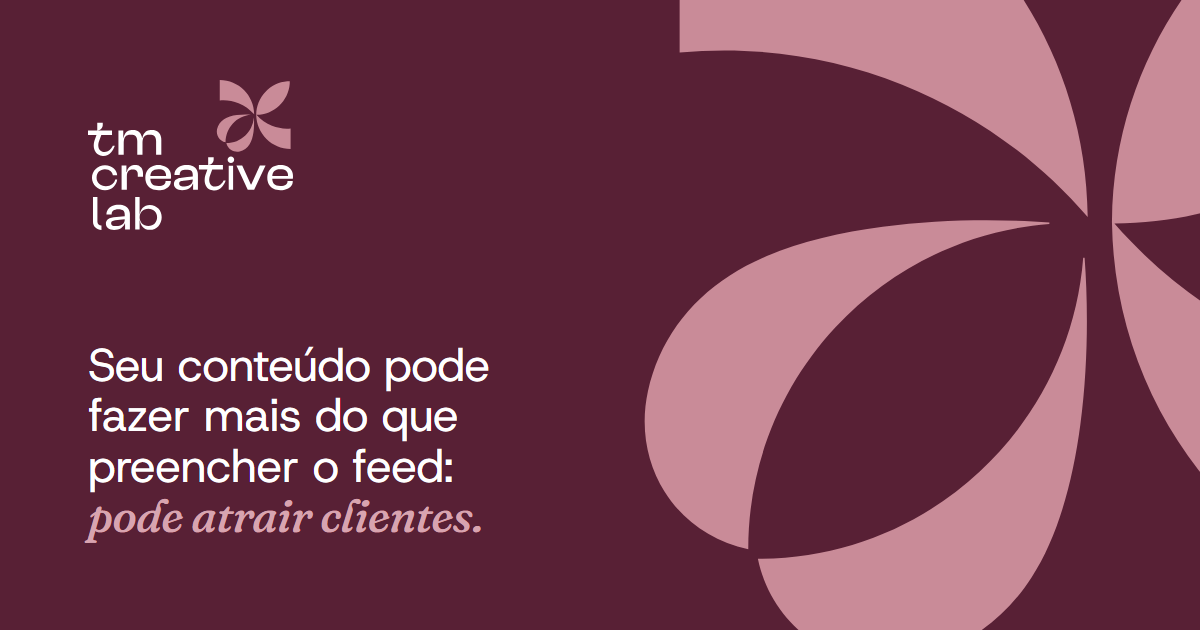
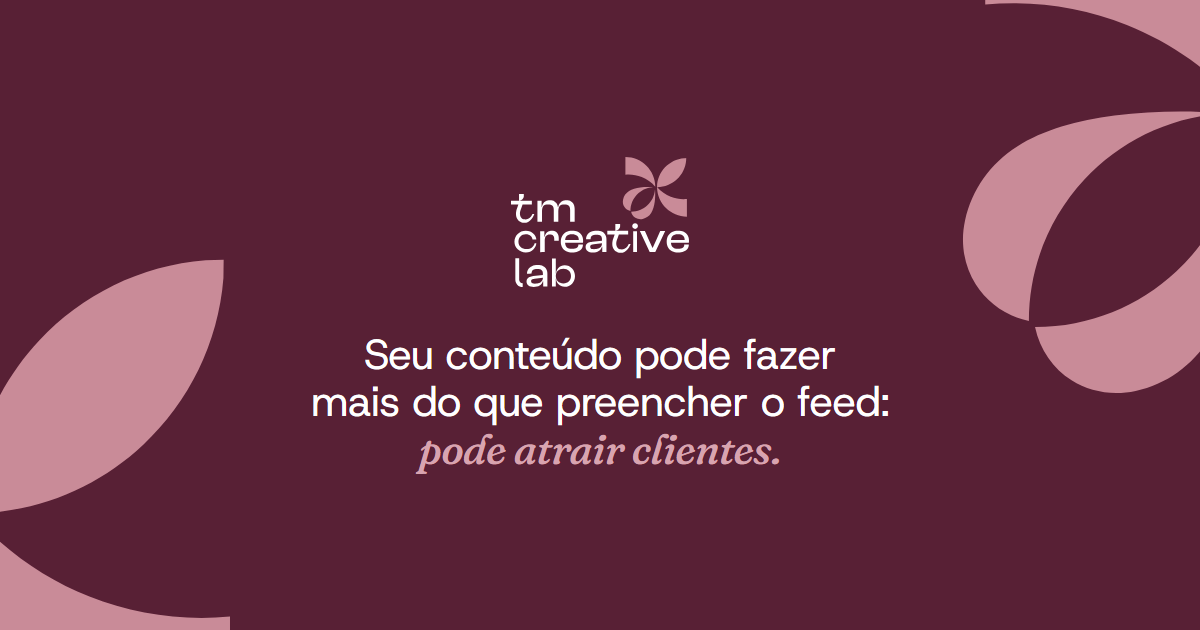
Share whatsapp

diff --git a/assets/brand/README.md b/assets/brand/README.md
@@ -22,7 +22,7 @@ Para cada SVG com PNG de origem também há rasters recortados em `-320`, `-640`
 | `favicon-32.png` | simbolo-06 recortado | Fallback do favicon |
 | `apple-touch-icon.png` | simbolo-01 sobre Vinho, 18% de respiro, 180×180 | iOS |
 | `icon-512.png` | idem, 512×512 | Manifest / ícone de app |
-| `og-image.png` | composição 1200×630 | Open Graph / Twitter do quiz |
-| `og-home.png` | composição 1200×630 (mesmo layout, frase do hero) | Open Graph / Twitter da home |
+| `og-image.png` | composição 1200×630, logo e texto dentro do quadrado central de 630 px (o WhatsApp recorta a miniatura no centro) | Open Graph / Twitter do quiz |
+| `og-home.png` | mesmo layout do og-image, com a frase do hero | Open Graph / Twitter da home |
 
 Observação: o PDF `_Arquivos_Logo/TM_Creative_Lab_Simbolo/TM_Creative_Lab_assinatura_horizontal.pdf` está na pasta errada (é a assinatura horizontal); o símbolo vem de `_Arquivos_Logo/TM_Creative_Lab_simbolo.pdf`.
